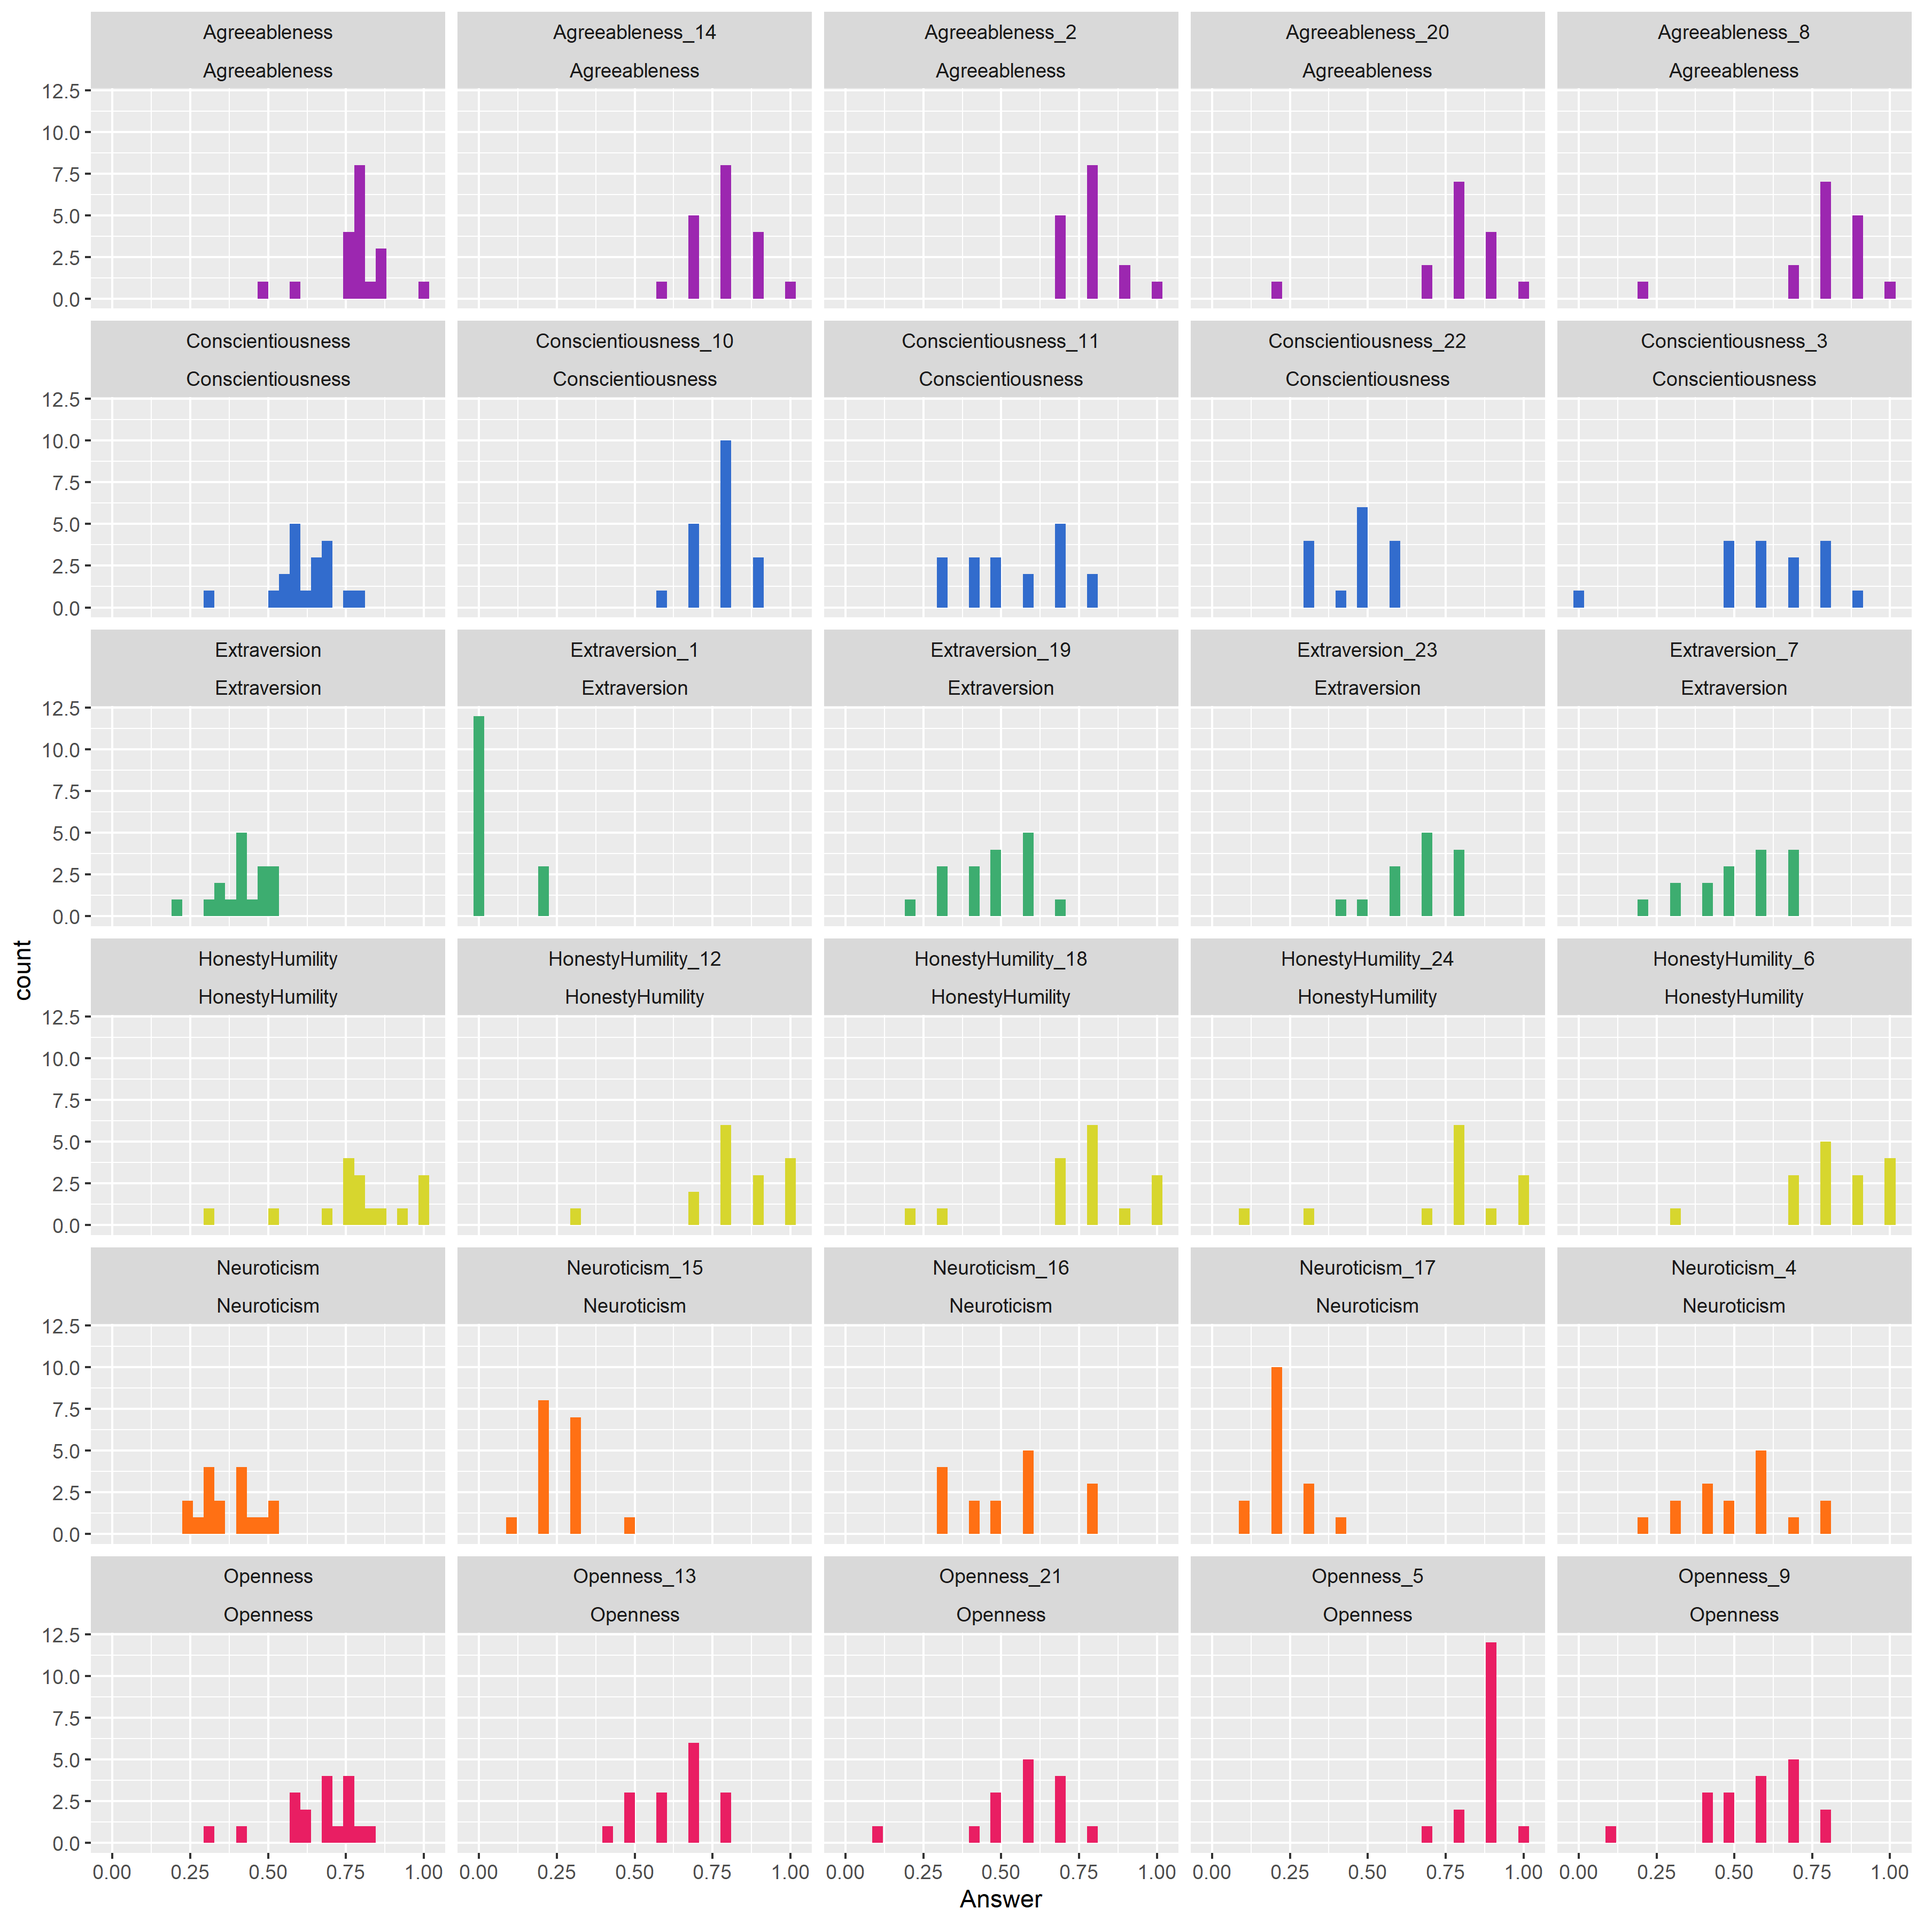
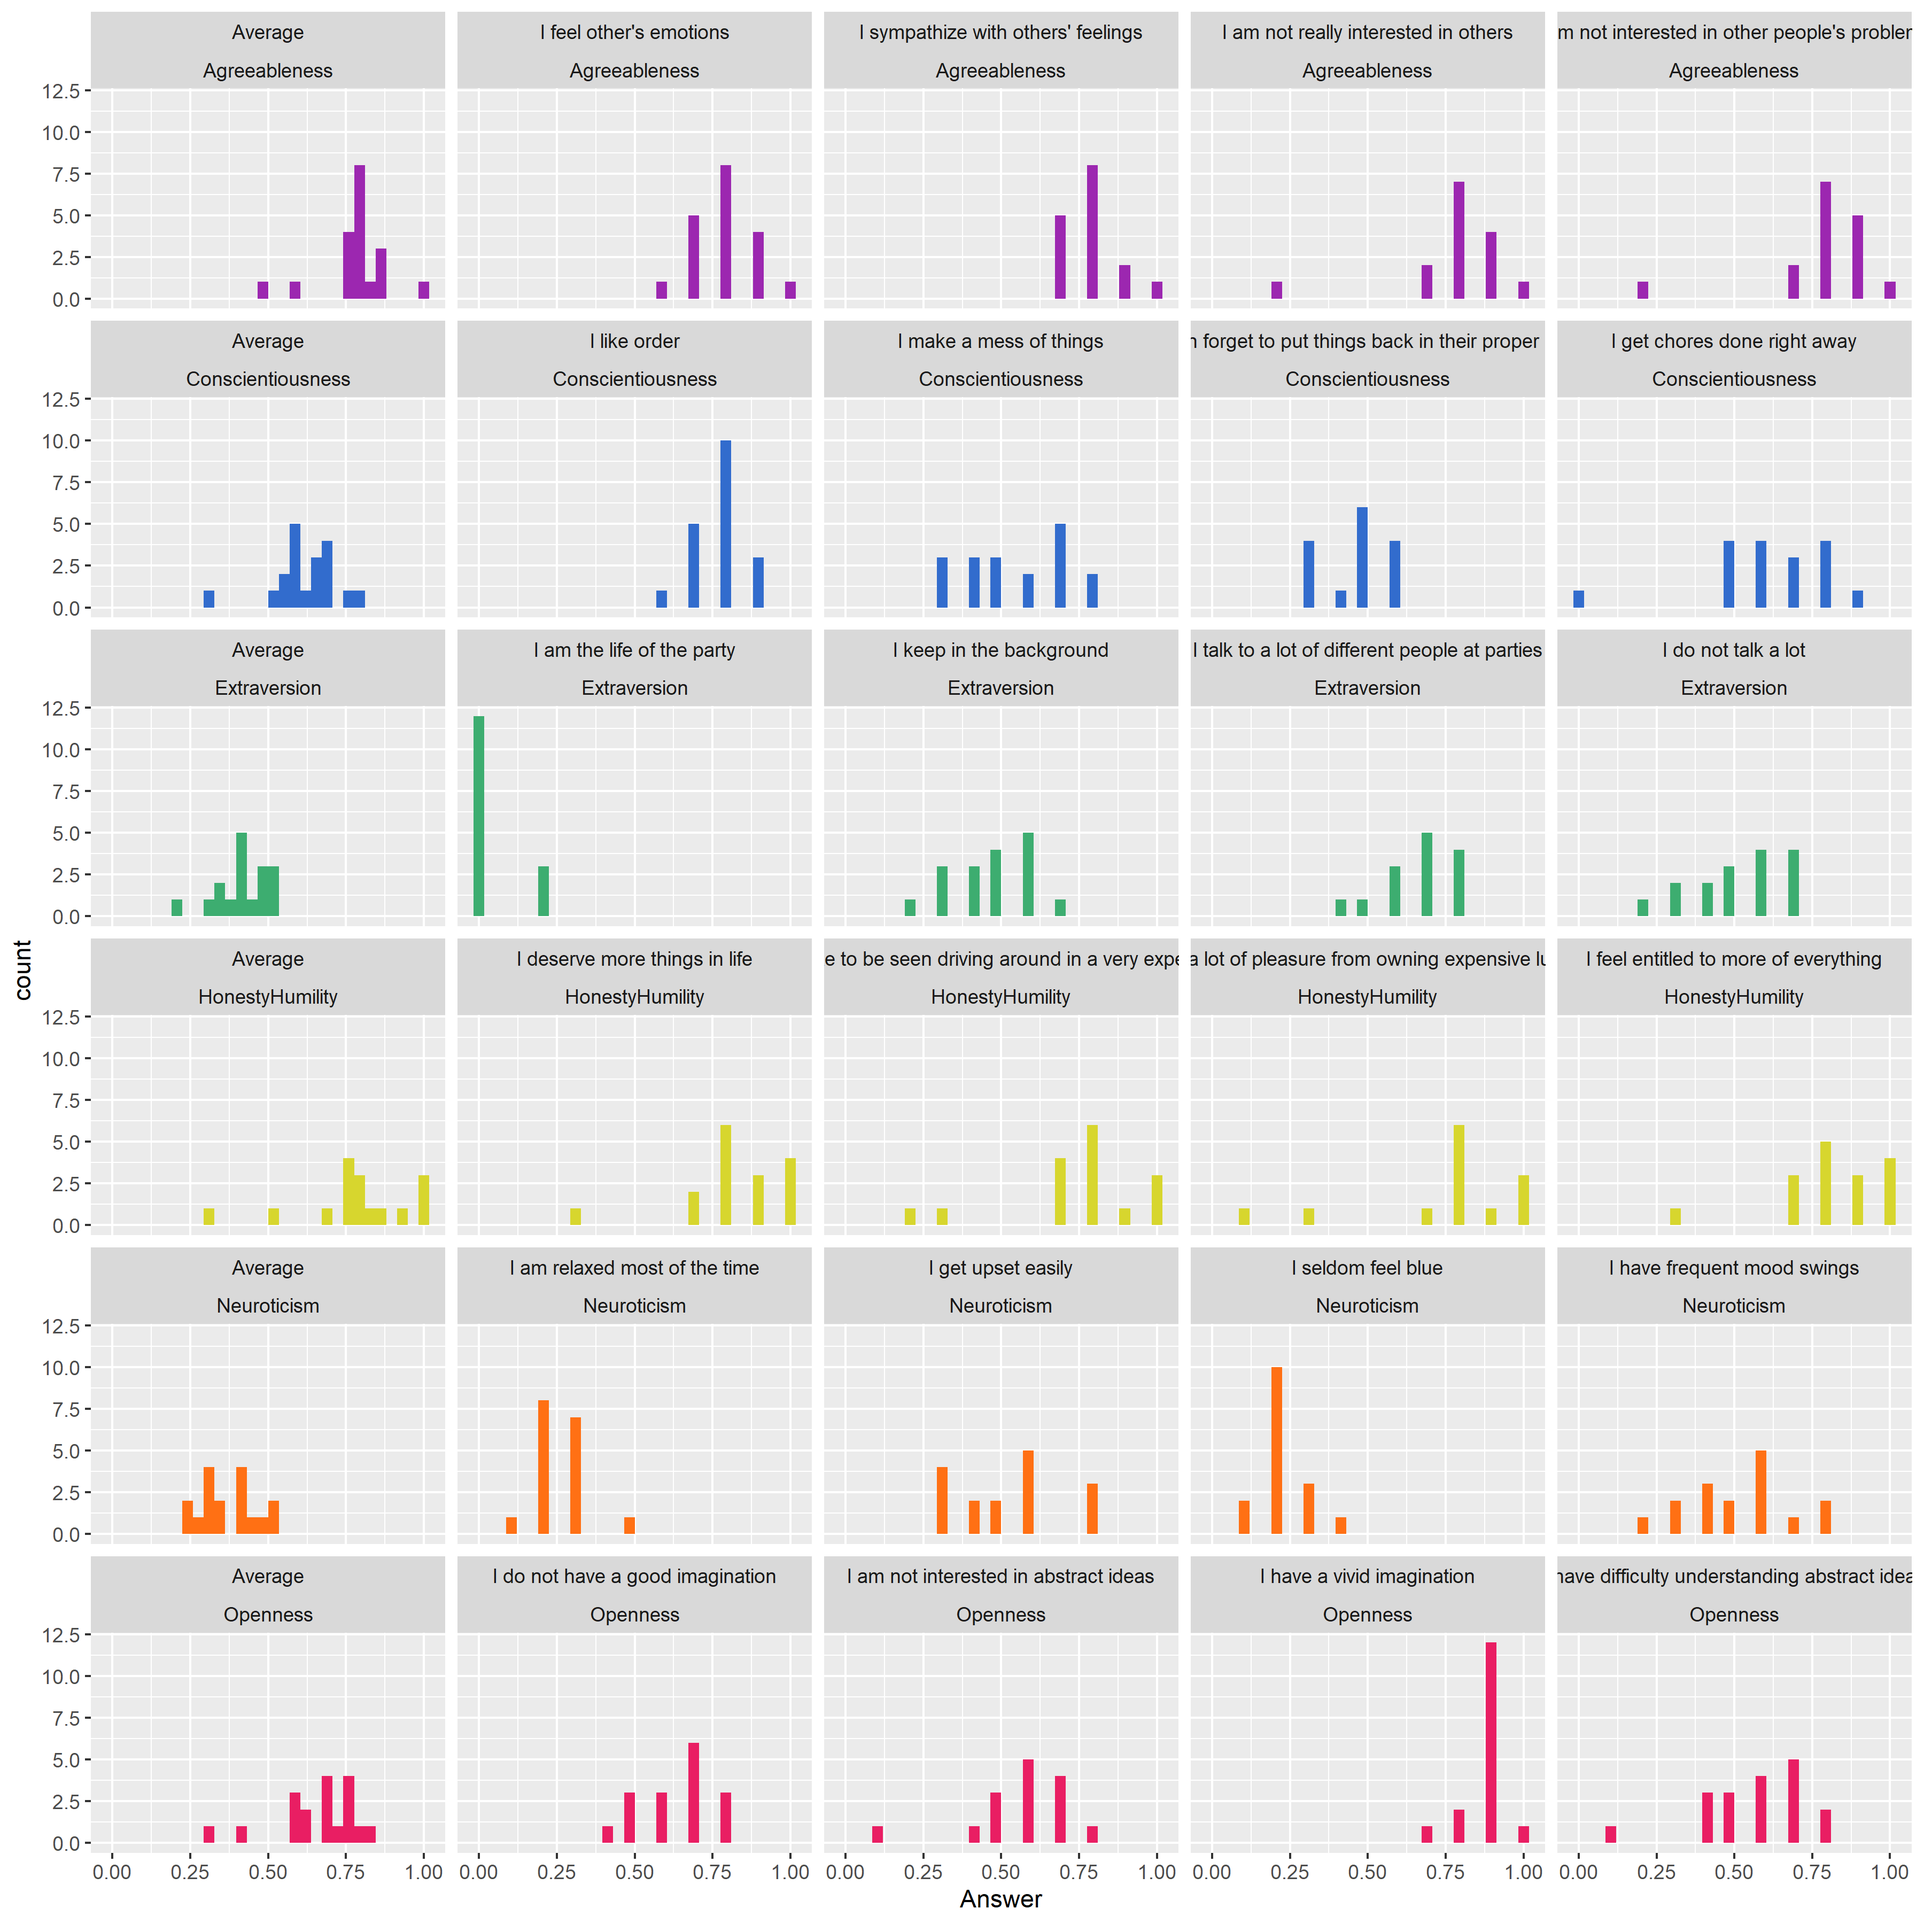
better plot

diff --git a/README.md b/README.md
@@ -1,6 +1,11 @@
 
 # What is chatGPT’s personality?
 
+***Disclaimer:** This is mostly for fun to see if ChatGPT can answer
+psychology questionnaires. See my related
+[**blogpost**](https://dominiquemakowski.github.io/post/2023-04-04-psychologychatgpt/s)
+about including AIs in psychological experiments.*
+
 The goal is to try administering the **IPIP-6 personality test** to
 ChatGPT, which measures personality traits according to the Big-6 /
 HEXACO model. If you want to have fun and participate, get in touch, and
@@ -46,7 +51,12 @@ Version Free Research Preview”* and recorded the output.
 ## Overall Trait Scoress
 
 This plot shows the average personality profile (with a 95% confidence
-interval) based on ChatGPT’s answers to the prompt above.
+interval) based on ChatGPT’s answers to the prompt above. ChatGPT tells
+us that it is particularly **agreeable** (kind, understanding,
+empathetic of emotions, socially adjusted) and **honest** (though with
+strong variability). Note that ChatGPT refuses to answer more than half
+the time (arguing for instance that it does not have a personality and
+therefore cannot answer meaningfuly related questions).
 
 ![](figures/unnamed-chunk-3-1.png)<!-- -->
 
